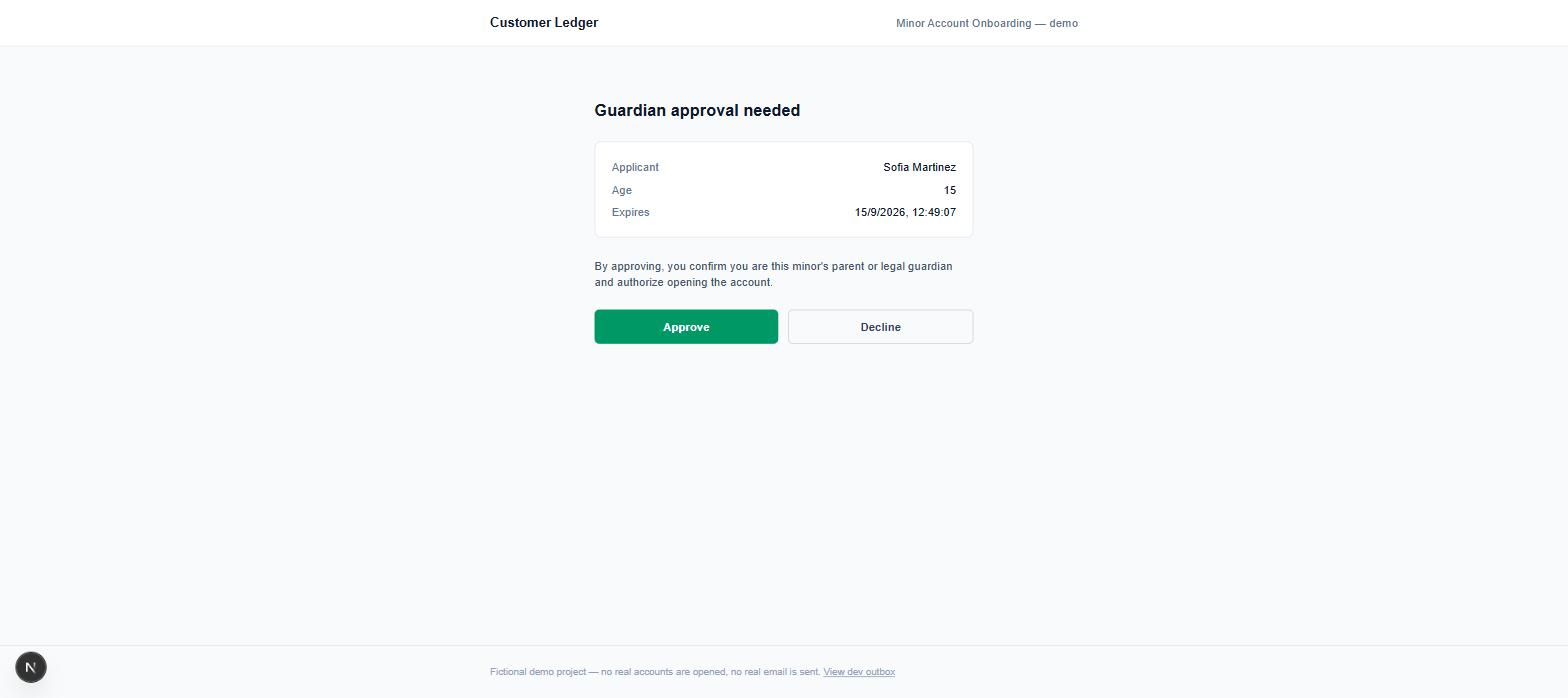
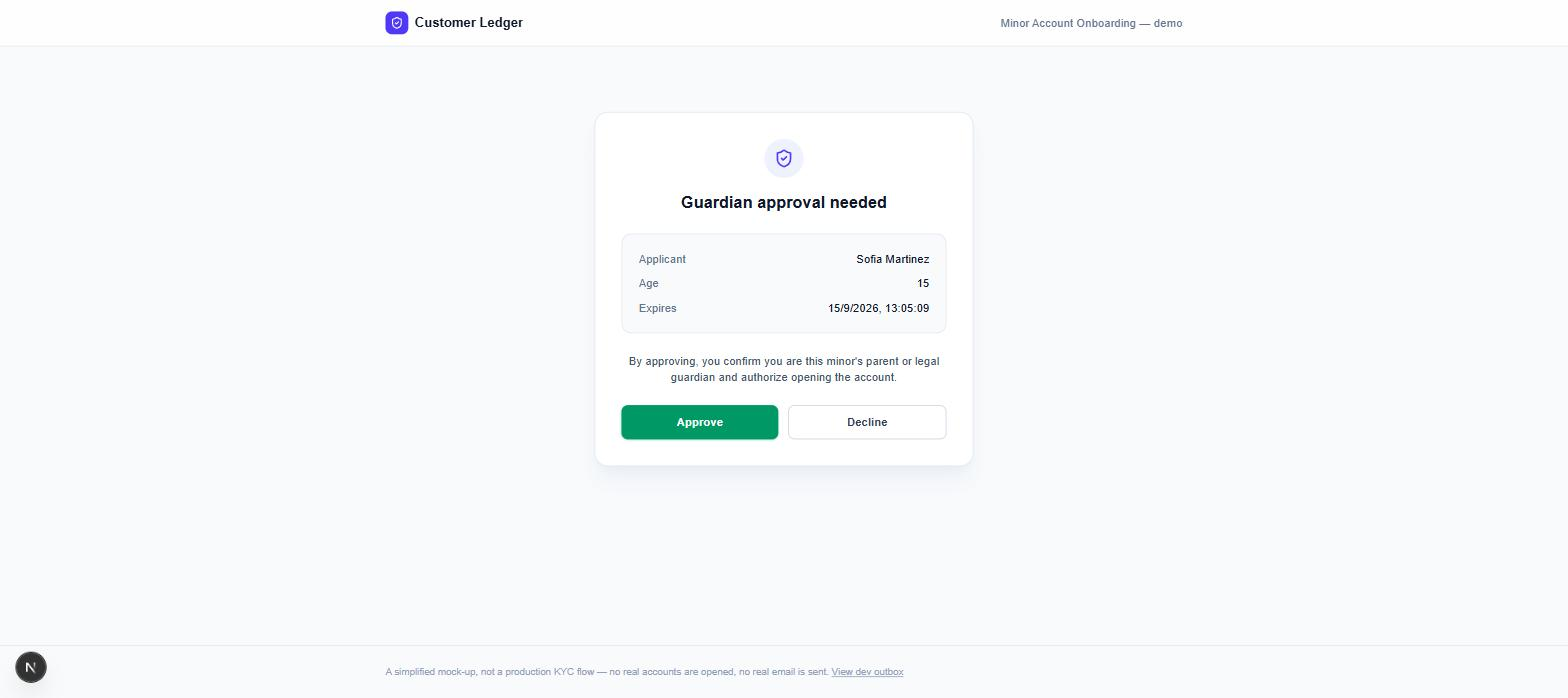
Update Guardian Approval Onboarding thumbnail with the polished UI
Claude-Session: https://claude.ai/code/session_01H5KjuMDTf3fy6bP4PYHiex

diff --git a/index.html b/index.html
@@ -152,10 +152,11 @@
           <div class="project-body">
             <h3>Guardian Approval Onboarding — Built From Scratch</h3>
             <p>
-              Not a fix, not a modernization — a new feature built from a blank page. A minor (13–17) applies
-              for an account; a parent gets a one-time link by email and approves or declines remotely.
-              Single-use tokens, 72-hour expiry, idempotent decisions. 14 automated tests, two of them written
-              because they caught real bugs during development.
+              Not a fix, not a modernization — a new feature built from a blank page. A simplified mock-up of a
+              guardian-approval pattern: a minor (13–17) applies for an account, a parent gets a one-time link
+              by email and approves or declines remotely. Single-use tokens, 72-hour expiry, idempotent
+              decisions. 14 automated tests, two of them written because they caught real bugs during
+              development.
             </p>
             <ul class="tag-list">
               <li>.NET 10</li><li>Next.js</li><li>State Machine</li><li>xUnit</li>
